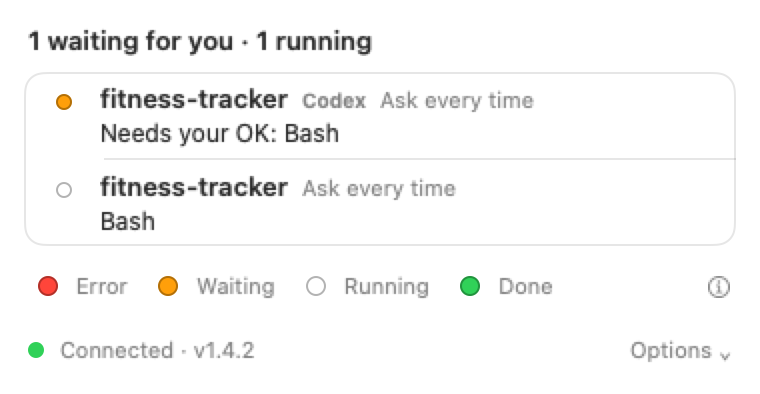
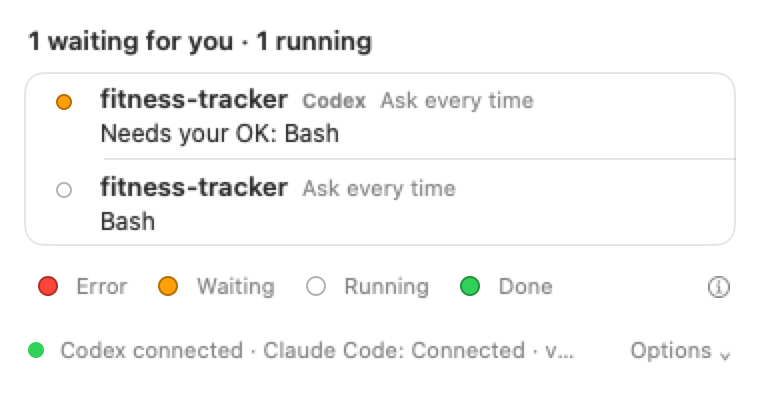
docs(codex): T13l 證據圖重渲——T13 修後全部情境＋#13／#14
重渲既有 12 個情境（在 T13 鏈 A/B 落地後的生產碼上跑一次）＋新增 3 個：

- #07：blockedByBundlePath(.unsupportedCharacter(" ")) 現在不給 snippet／複製鈕
  （D-w）——realSnippetWithSpace 這條輸入常數繼續餵，證明「產得出來」與「畫不畫」
  是兩回事。
- #10／#11：connectedStalePath 兩種 Rejection 的文案不再位元組相同（D-x）——
  中性開場句共用，成因／出路依 rejection 分流，#11 指名空白字元並給對應出路。
  修前（e7ddd68）這兩張是同一張圖。
- #12：頭號情境重渲後，標題／footer chip／CTA 窄條三處變成雙 agent 感知
  （D-y）——實測英文字串「Codex connected · Claude Code: Not connected yet」，
  Codex 子句在前。
- #05：occupiedByOther 有 snippet 那格多一行合併指示＋「Show me how」按鈕
  （D-aa），snippet 區塊固定高度＋可捲。
- #09：連帶因 D-y 落地而更新 footer chip 文字（codex=.connected 時三處皆讀
  statusLabel，不只標題／#12 受影響）。
- 新增 #13／#13b（D-v 修後對照組，S0-1）：.codexConnected banner ＋ rows 有一列
  Claude session → banner 仍然出現（#13）；同一顆 banner ＋ rows 有一列 Codex
  session → banner 已退場（#13b）。退場條件從「rows 非空」改成「出現 Codex 的
  列（hasCodexRow）」。
- 新增 #14（D-ab／CX56 最壞高度組合）：install=.broken(.targetMissing,
  owner:.external)（CX56 同一個 .replaceExternal 代表值）＋ occupiedByOther 有
  snippet ＋ banner=.codexConnected ＋ rows 空 ＋ 英文。實測面板高 680pt
  （@2x 1360px，見圖片 pixelHeight），在 780pt 天花板內，Copy 鈕與 footer 都在
  畫面內。只產英文一張（team-lead／CX56 都選英文為最壞語言，中文版無新增資訊）。

INDEX.md「persona r1 指出的視覺問題對照」全部補上「修後」欄，並把 e7ddd68 寫的
「r13 前的修前基準，T13 落地後要重渲」預告字樣改成回顧語氣（避免預告變成謊）。

不改動任何生產碼；swift test 全量 312 個測試維持全綠；renderer 300 行（含既有
分支上限）。

Changed region(s): [[0.1211, 0.8528, 0.7566, 0.9137]]

diff --git a/Tests/AgentAuraAppTests/CodexEvidenceRenderer.swift b/Tests/AgentAuraAppTests/CodexEvidenceRenderer.swift
@@ -25,11 +25,11 @@ struct CodexEvidenceRenderer {
     /// 真的產生器輸出，不是手寫字面（同 `CodexSectionViewTests.realSnippet` 的既有理由）。
     static let realSnippet = CodexHooksJSON.snippet(hookBinaryPath: "/Applications/AgentAura.app/Contents/PlugIns/aura-hook")
 
-    /// S1-6（persona r1）：#07 宣告 `.unsupportedCharacter(" ")`，但先前餵的 `realSnippet`
-    /// 來源路徑根本不含空白——圖上的 snippet 因此看不到「那條會壞的路徑」，跟文案兜不起來。
-    /// 這裡改用真的含空白的路徑產生 snippet，讓畫面上的 snippet 內容與宣稱的 rejection 一致。
-    /// **r13 之後這個情境會改成「不給 snippet」**（spec 已改），這條常數與 #07 是 r13 前的
-    /// 修前基準，T13 落地後要重渲（見 `scenarios(now:)` #07 與 `writeIndex` 的附註）。
+    /// S1-6（persona r1，`493e0bf` 修前基準）：#07 宣告 `.unsupportedCharacter(" ")`，
+    /// 這裡餵真的含空白的路徑產生 snippet，讓「即使產得出來也沒有畫」這件事有意義
+    /// （負向斷言必須餵正向輸入，同 spec plan §0／D-ad）。**T13l（D-w 落地後）**：
+    /// `.blockedByBundlePath` 兩種 Rejection 現在都不給 snippet——這個常數繼續餵，
+    /// 用來證明「產得出來」與「畫不畫得出來」是兩回事，不是留著沒用的舊字面。
     static let realSnippetWithSpace = CodexHooksJSON.snippet(hookBinaryPath: "/Users/someone/My Apps/AgentAura.app/Contents/PlugIns/aura-hook")
 
     func session(_ id: String, _ name: String, _ a: Activity, agent: Agent, updatedAt: Date) -> SessionState {
@@ -51,10 +51,21 @@ struct CodexEvidenceRenderer {
     }
 
     /// 一個情境＝一個「換語言重建」的工廠 ＋ 給 persona-tester 看的說明句（寫進 `INDEX.md`）。
+    /// `languages`：預設兩語言各一張；#14（最壞高度組合）team-lead 指定只要英文一張
+    /// （CX56 量到的最壞語言），故留一個縮小定義域的口子，不必為它硬湊一張沒人要看的中文重複圖。
     struct Scenario {
         let name: String
         let desc: String
+        let languages: [Language]
         let make: (Language) -> PanelModel
+
+        init(name: String, desc: String, languages: [Language] = [.english, .traditionalChinese],
+            make: @escaping (Language) -> PanelModel) {
+            self.name = name
+            self.desc = desc
+            self.languages = languages
+            self.make = make
+        }
     }
 
     /// 共用組裝——`icon` 從 `sessions` 推導（取最高優先序活動，同 `IconState` 既有語意），
@@ -78,10 +89,11 @@ struct CodexEvidenceRenderer {
                                codex: codex, codexSnippet: codexSnippet, codexPathRejection: codexPathRejection, now: now)
     }
 
-    /// 12 個情境（10 個題項 + 「connectedStalePath 兩種 Rejection 都不給重新接上按鈕」拆兩張，
-    /// 見 #10／#11：這兩張與 #6／#7 不是同一個 `CodexState`（#6/#7 是 `occupiedByOther`／
-    /// `blockedByBundlePath`，#10/#11 是 `connectedStalePath`），沒有重疊可併，+ #12
-    /// S1-7 補的證據缺口——見該情境的 doc comment）。
+    /// 15 個情境（原 12 個 `493e0bf` 基準 + T13l 三個新增）：10 個題項 + 「connectedStalePath
+    /// 兩種 Rejection 都不給重新接上按鈕」拆兩張見 #10／#11（這兩張與 #6／#7 不是同一個
+    /// `CodexState`，#6/#7 是 `occupiedByOther`／`blockedByBundlePath`，#10/#11 是
+    /// `connectedStalePath`，沒有重疊可併）+ #12（S1-7 缺口）+ **T13l 新增**：#13／#13b
+    /// （D-v 修後對照組，S0-1）＋ #14（最壞高度組合，D-ab／CX56）。
     func scenarios(now: Date) -> [Scenario] {
         let claude = session("a", "fitness-tracker", .working, agent: .claude, updatedAt: now)
         let codexRow = session("b", "fitness-tracker", .waiting, agent: .codex, updatedAt: now.addingTimeInterval(-30))
@@ -122,12 +134,11 @@ struct CodexEvidenceRenderer {
                 panel(sessions: [claude], install: connected, codex: .occupiedByOther,
                      codexPathRejection: .mustMoveToApplications, language: lang, now: now)
             },
-            // 7. P2：blockedByBundlePath(.unsupportedCharacter(" "))——文案指名是空白字元。
-            //    S1-6（persona r1）：snippet 來源路徑真的含空白（/Users/someone/My Apps/...），
-            //    不再是不含空白的 realSnippet——r13 前的修前基準，T13 落地後（改成不給
-            //    snippet）要重渲這張，見 writeIndex 的附註。
+            // 7. P2／S0-2（D-w，r13 後）：blockedByBundlePath(.unsupportedCharacter(" "))——
+            //    文案指名是空白字元＋出路句，**不給 snippet**（餵真的含空白路徑產的
+            //    `realSnippetWithSpace` 是負向斷言的正向輸入：證明「產得出來」但沒有畫）。
             Scenario(name: "07-blocked-unsupported-character",
-                     desc: "P2：blockedByBundlePath(.unsupportedCharacter(\" \"))——文案指名是空白字元＋snippet（同源，來源路徑真的含空白：/Users/someone/My Apps/…）＋「複製」按鈕。**r13 前的狀態**（r13 之後這格改成不給 snippet，T13 落地後要重渲）") { lang in
+                     desc: "P2／S0-2 修後（D-w）：blockedByBundlePath(.unsupportedCharacter(\" \"))——文案指名是空白字元＋出路句（把 App 移到不含該字元的位置）。**不給 snippet／複製鈕**——即使餵進去的是真的含空白路徑產生的 snippet（`realSnippetWithSpace`）也不畫，修前（`493e0bf`）這格會畫出那條會壞的路徑並給「複製」") { lang in
                 panel(sessions: [claude], install: connected,
                      codex: .blockedByBundlePath(.unsupportedCharacter(" ")), codexSnippet: Self.realSnippetWithSpace,
                      codexPathRejection: .unsupportedCharacter(" "), language: lang, now: now)
@@ -143,35 +154,69 @@ struct CodexEvidenceRenderer {
                      desc: "P4：同一份 sessions 列表裡 Claude 列與帶「Codex」標籤的列並存，分得出來、列高不變（見 CodexRowLabelRenderTests 的既有像素／高度守衛）") { lang in
                 panel(sessions: [claude, codexRow], install: connected, codex: .connected, language: lang, now: now)
             },
-            // 10. R-9：connectedStalePath，pathRejection==.mustMoveToApplications——不畫
-            //     「重新接上」按鈕，換句解釋（不給按鈕的理由：按下去會先 disconnect 一份還在運作的檔）。
+            // 10. R-9／S2-1（D-x，r13 後）：connectedStalePath，pathRejection==
+            //     .mustMoveToApplications——不畫「重新接上」按鈕；開場句改成中性事實
+            //     （不再說「下次開機就會消失」），成因／出路重用 D-w 那組。
             Scenario(name: "10-stale-rejection-must-move-withholds-reconnect",
-                     desc: "R-9：connectedStalePath，pathRejection==.mustMoveToApplications——不畫「重新接上」按鈕，換句解釋（與 #6 不同 state：這張是 connectedStalePath，#6 是 occupiedByOther）") { lang in
+                     desc: "R-9／S2-1 修後（D-x）：connectedStalePath，pathRejection==.mustMoveToApplications——不畫「重新接上」按鈕；開場句改成中性事實（只講「這份設定指向另一個位置」，不再宣稱「下次開機就會消失」），成因／出路沿用「把 App 移到『應用程式』」（與 #6 不同 state：這張是 connectedStalePath，#6 是 occupiedByOther）") { lang in
                 panel(sessions: [claude], install: connected, codex: .connectedStalePath,
                      codexPathRejection: .mustMoveToApplications, language: lang, now: now)
             },
-            // 11. R-9：同上，另一種 Rejection——CX36 兩種 Rejection 都驗過會不給按鈕，這裡兩種都留證據。
+            // 11. R-9／S2-1（D-x，r13 後）：同上，另一種 Rejection——**修前 `493e0bf` 這兩張
+            //     位元組完全相同**（persona r1 現場驗過），D-x 拆開中性開場＋依 rejection
+            //     分流的成因／出路之後，這張與 #10 不再相同：指名字元＋不同的出路句。
             Scenario(name: "11-stale-rejection-unsupported-character-withholds-reconnect",
-                     desc: "R-9：connectedStalePath，pathRejection==.unsupportedCharacter(\" \")——同樣不畫「重新接上」按鈕，與 #10 同一句解釋（文案不預設成因）；與 #7 不同 state：這張是 connectedStalePath，#7 是 blockedByBundlePath") { lang in
+                     desc: "R-9／S2-1 修後（D-x）：connectedStalePath，pathRejection==.unsupportedCharacter(\" \")——同樣不畫「重新接上」按鈕，但**不再與 #10 位元組相同**：同一句中性開場之後接的是指名空白字元＋「把 App 移到不含該字元的位置」，不是 #10 的「移到『應用程式』」（修前 `493e0bf` 這兩張是同一張圖，可查證為假的「會消失」子句已拿掉；與 #7 不同 state：這張是 connectedStalePath，#7 是 blockedByBundlePath）") { lang in
                 panel(sessions: [claude], install: connected, codex: .connectedStalePath,
                      codexPathRejection: .unsupportedCharacter(" "), language: lang, now: now)
             },
-            // 12. S1-7（persona r1 指出的證據缺口）：本 change 的頭號情境——Claude 側
+            // 12. S1-1 修後（D-y，r13 後）：本 change 的頭號情境——Claude 側
             //     `.notConnected`，同時有一列活著的 Codex session（agent==.codex，working
-            //     態）。標題（`PanelModel.title`）、footer chip（`PanelFooterView`）、CTA
-            //     窄條（`ConnectCTABannerView`）三處都只讀 `model.install`（`healthLabel`／
-            //     `connectCTAText`），完全不看 `model.codex`——這張圖如實呈現「三處都只反映
-            //     Claude」這個現況，不是修過的版本（這裡不改生產碼）。
+            //     態）。修前（`493e0bf`）標題／footer chip／CTA 窄條三處逐字都是「還沒接上」；
+            //     修後三處改讀共用的 `PanelModel.statusLabel(_:)`——Codex 子句在前、Claude
+            //     半句在後（例：英文「Codex connected · Claude Code: Not connected yet」）。
             Scenario(name: "12-notConnected-claude-with-live-codex-session",
-                     desc: "S1-7：install=.notConnected（Claude 未接上）＋一列活著的 Codex session（working）＋Codex 卡片 .connected——看標題／footer chip／CTA 窄條三處在這個組合下寫什麼字（persona r1：三處都只反映 Claude，完全沒提到正在跑的 Codex session）") { lang in
+                     desc: "S1-1 修後（D-y）：install=.notConnected（Claude 未接上）＋一列活著的 Codex session（working）＋Codex 卡片 .connected——標題／footer chip／CTA 窄條三處現在都讀 `statusLabel`，寫成「Codex connected · Claude Code: Not connected yet」（Codex 子句在前，見 §3.1），不再是修前（`493e0bf`）三處逐字「還沒接上」") { lang in
                 let liveCodexSession = session("c", "fitness-tracker", .working, agent: .codex, updatedAt: now)
                 return panel(sessions: [liveCodexSession], install: .notConnected, codex: .connected,
                             language: lang, now: now)
             },
+            // 13. S0-1 修後對照組之一（D-v）：`.codexConnected` banner ＋ rows 含一列
+            //     **Claude** session——banner 必須仍然出現。修前（`493e0bf` 的 #03）這張圖
+            //     的 rows 必須留空才看得到兩句話，因為 `.codexConnected` 當時共用
+            //     `.connected` 的退場條件（出現任何一列就退場）；修後 `.codexConnected` 只
+            //     在出現 **Codex** 的列時才退場，一列 Claude session 對它什麼都不兌現。
+            Scenario(name: "13-codexConnected-banner-persists-with-claude-row",
+                     desc: "S0-1 修後（D-v）：.codexConnected banner ＋ rows 含一列 Claude session——banner 仍然出現（兩句話都在）。這是 #03（修前要 rows 留空才看得到兩句話）的直接對照：同一顆 banner 現在能與一列 Claude session 共存，因為退場條件改成看 hasCodexRow，不是看 rows.isEmpty") { lang in
+                panel(sessions: [claude], install: connected, banner: .codexConnected(language: lang),
+                     codex: .connected, language: lang, now: now)
+            },
+            // 13b. 對照組之二：同一顆 banner ＋ rows 含一列 **Codex** session——banner 應該
+            //      已經退場（hasCodexRow==true，「下一個 Codex session 起生效」的承諾已兌現）。
+            //      與 #13 並列，佐證退場條件是「看是不是 Codex 的列」，不是「rows 非空就不退場」。
+            Scenario(name: "13b-codexConnected-banner-retires-with-codex-row",
+                     desc: "對照（D-v）：.codexConnected banner ＋ rows 含一列 Codex session——banner 已退場（hasCodexRow==true，承諾已兌現）。與 #13 一起看：#13 有 Claude 列仍顯示 banner，這張有 Codex 列就不顯示，證明退場條件是「有沒有 Codex 的列」不是「rows 是否非空」") { lang in
+                let codexOnly = session("d", "fitness-tracker", .working, agent: .codex, updatedAt: now)
+                return panel(sessions: [codexOnly], install: connected, banner: .codexConnected(language: lang),
+                            codex: .connected, language: lang, now: now)
+            },
+            // 14. S1-4／CX56（D-ab）最壞高度組合——與 CX56 的 `install` 代表值同一個
+            //     （`.broken(.targetMissing, owner: .external)`，量出來的 `.replaceExternal`
+            //     仿射代表值，見 `CodexSnippetHeightTests.installCandidates`）＋
+            //     `.occupiedByOther` 有 snippet ＋ banner=.codexConnected ＋ rows 空 ＋
+            //     英文（team-lead／CX56 都選英文：全域量測裡最壞的語言）。只產一張
+            //     （`languages: [.english]`）——中文版沒有新增資訊，不必為了「兩語言各一張」
+            //     的慣例硬湊。
+            Scenario(name: "14-worst-height-combination",
+                     desc: "S1-4／CX56 最壞高度組合（D-ab）：install=.broken(.targetMissing, owner:.external)（CX56 的 `.replaceExternal` 代表值）＋ .occupiedByOther 有 snippet ＋ banner=.codexConnected ＋ rows 空 ＋ 英文——固定高度＋可捲的 snippet 區塊落地後，天花板應 ≤780pt（@2x 1560px），「複製」鈕與 footer 都在畫面內。**只有這張圖是英文單張**（CX56 量到的最壞語言，中文版無新增資訊）",
+                     languages: [.english]) { lang in
+                panel(install: .broken(.targetMissing, owner: .external), banner: .codexConnected(language: lang),
+                     codex: .occupiedByOther, codexSnippet: Self.realSnippet, language: lang, now: now)
+            },
         ]
     }
 
-    @Test("產出 12 組 Codex 面板情境 × 兩語言（.aqua）＋ INDEX.md")
+    @Test("產出 15 組 Codex 面板情境（14 組兩語言 + #14 英文單張）（.aqua）＋ INDEX.md")
     func renderCodexEvidence() throws {
         let dir = try Self.outputDirectory()
         try FileManager.default.createDirectory(at: dir, withIntermediateDirectories: true)
@@ -180,7 +225,8 @@ struct CodexEvidenceRenderer {
 
         var index: [(file: String, desc: String)] = []
         for scenario in all {
-            for (language, suffix) in [(Language.english, "en"), (.traditionalChinese, "zh")] {
+            for (language, suffix) in [(Language.english, "en"), (.traditionalChinese, "zh")]
+                where scenario.languages.contains(language) {
                 let image = try render(scenario.make(language))
                 let file = "\(scenario.name)-\(suffix).png"
                 try EvidenceRenderer.writePNG(image, to: dir.appendingPathComponent(file))
@@ -188,7 +234,8 @@ struct CodexEvidenceRenderer {
             }
         }
         try writeIndex(dir: dir, entries: index)
-        #expect(index.count == all.count * 2, "情境數 × 兩語言，應等於實際寫出的張數，實際 \(index.count)")
+        let expected = all.reduce(0) { $0 + $1.languages.count }
+        #expect(index.count == expected, "每個情境的語言數加總，應等於實際寫出的張數，實際 \(index.count)，預期 \(expected)")
     }
 
     func writeIndex(dir: URL, entries: [(file: String, desc: String)]) throws {
@@ -211,20 +258,35 @@ struct CodexEvidenceRenderer {
             **只有 `.aqua`（淺色）**：深淺色對比不是這批圖要驗的維度，版面與文案在深淺模式下走同一份 SwiftUI\
             語意色（`.primary`／`.secondary`），需要深色對照時另外要求即可。
 
-            ## persona r1 指出的視覺問題對照（只標，不修）
+            ## persona r1 指出的視覺問題對照（T13l：全部補上「修後」欄）
 
-            - **S0-1** ↔ `03-connected-banner-*`：接上成功 banner 的兩句話要看得到，這張圖的 `sessions` 刻意留空\
-            （`.connected` kind banner 在有活著的 session 時會自動退場，見 #03 的情境註解）——不是遺漏 session，\
-            是唯一能讓兩句話同時留在畫面上的組合。
-            - **S1-4** ↔ `05-occupied-with-snippet-*` ／ `07-blocked-unsupported-character-*`：面板高度約 944pt，\
-            「複製」按鈕落在約 848pt 處（皆為 pt，非這批圖的 px——見上方尺寸單位附註）——snippet 區塊把卡片撐得\
-            很高，複製鈕在很下面才看得到。這裡先標記現況，不在這輪修版面。
-            - **S1-6** ↔ `07-blocked-unsupported-character-*`：已修——snippet 現在由真的含空白的路徑\
-            （`/Users/someone/My Apps/AgentAura.app/Contents/PlugIns/aura-hook`）產生，圖上看得到那條會壞的路徑就在\
-            snippet 裡。**r13 前的修前基準**：spec r13 之後這個情境會改成「不給 snippet」，T13 落地後要重渲這張。
-            - **S1-7** ↔ `12-notConnected-claude-with-live-codex-session-*`：新增。本 change 的頭號情境\
-            （Claude 未接上 ＋ 一列活著的 Codex session）先前完全沒有證據圖——這張如實呈現標題／footer chip／CTA\
-            窄條三處目前都只讀 `model.install`（不看 `model.codex`），完全沒提到正在跑的 Codex session。
+            - **S0-1（D-v）** ↔ 修前 `03-connected-banner-*`（rows 刻意留空才看得到兩句話）→\
+            **修後** `13-codexConnected-banner-persists-with-claude-row-*`（rows 有一列 **Claude**\
+            session，banner 仍然出現）＋ `13b-codexConnected-banner-retires-with-codex-row-*`（rows 有一列\
+            **Codex** session，banner 已退場，對照組）。退場條件從「rows 非空就退場」改成「出現 Codex 的列\
+            （`hasCodexRow`）才退場」。
+            - **S0-2（D-w）** ↔ 修前 `07-blocked-unsupported-character-*`（給 snippet＋「複製」）→\
+            **修後同檔名**（本次重渲）：`.unsupportedCharacter` 現在**不給 snippet**，只給指名字元的解釋＋\
+            出路句——即使餵進去的是真的含空白路徑產的 snippet 也沒有畫（`realSnippetWithSpace` 這條輸入常數\
+            繼續留著，證明的是「產得出來」與「畫不畫」是兩回事）。
+            - **S1-1（D-y）** ↔ 修前 `12-notConnected-claude-with-live-codex-session-*`（標題／footer chip／\
+            CTA 窄條三處逐字「還沒接上」）→ **修後同檔名**（本次重渲）：三處現在讀 `statusLabel`，\
+            寫成「Codex connected · Claude Code: Not connected yet」（Codex 子句在前）。
+            - **S1-3（D-aa）** ↔ 修前 `05-occupied-with-snippet-*`（只有說明＋snippet＋「複製」，沒有合併\
+            指示）→ **修後同檔名**（本次重渲）：多一行合併指示（「把這些 entry 併進你現有的 hooks 物件，\
+            不要整份取代」）＋一顆「教我怎麼做」按鈕（送出既有 `.openHelp`）。
+            - **S1-4（D-ab）** ↔ 修前 `05-occupied-with-snippet-*` ／ `07-blocked-unsupported-character-*`\
+            （面板高度約 944pt，「複製」按鈕落在約 848pt 處，皆為 pt，非這批圖的 px）→ **修後**\
+            `14-worst-height-combination-en`：snippet 區塊固定高度＋可捲，天花板 ≤780pt，「複製」鈕與 footer\
+            都在畫面內（實測數字見檔名列表那一行）。**這張用的是 CX56 同一個 `install` 代表值\
+            （`.broken(.targetMissing, owner: .external)`）與同一個天花板，不是另外挑的數字**。
+            - **S2-1（D-x）** ↔ 修前 `10-*` ／ `11-*`（persona r1 現場驗過兩張位元組完全相同）→\
+            **修後同檔名**（本次重渲）：兩張**不再相同**——中性開場句共用，但成因／出路依 rejection 分流\
+            （#10 講「移到『應用程式』」，#11 指名字元並講「移到不含該字元的位置」）。
+            - **S1-6（D-ad）** ↔ `07-blocked-unsupported-character-*`：證據渲染器本身的修正——snippet 輸入\
+            改用真的含空白的路徑（`493e0bf` 已修，本次無變動）。
+            - **S1-7（D-ad）** ↔ `12-notConnected-claude-with-live-codex-session-*`：新增證據圖本身\
+            （`493e0bf` 已加，本次重渲內容因 D-y 落地而更新，見上面 S1-1 那條）。
 
             | 檔名 | 情境（給 persona 看什麼） |
             |---|---|

diff --git a/docs/evidence/codex/INDEX.md b/docs/evidence/codex/INDEX.md
@@ -8,12 +8,16 @@
 
 **只有 `.aqua`（淺色）**：深淺色對比不是這批圖要驗的維度，版面與文案在深淺模式下走同一份 SwiftUI語意色（`.primary`／`.secondary`），需要深色對照時另外要求即可。
 
-## persona r1 指出的視覺問題對照（只標，不修）
+## persona r1 指出的視覺問題對照（T13l：全部補上「修後」欄）
 
-- **S0-1** ↔ `03-connected-banner-*`：接上成功 banner 的兩句話要看得到，這張圖的 `sessions` 刻意留空（`.connected` kind banner 在有活著的 session 時會自動退場，見 #03 的情境註解）——不是遺漏 session，是唯一能讓兩句話同時留在畫面上的組合。
-- **S1-4** ↔ `05-occupied-with-snippet-*` ／ `07-blocked-unsupported-character-*`：面板高度約 944pt，「複製」按鈕落在約 848pt 處（皆為 pt，非這批圖的 px——見上方尺寸單位附註）——snippet 區塊把卡片撐得很高，複製鈕在很下面才看得到。這裡先標記現況，不在這輪修版面。
-- **S1-6** ↔ `07-blocked-unsupported-character-*`：已修——snippet 現在由真的含空白的路徑（`/Users/someone/My Apps/AgentAura.app/Contents/PlugIns/aura-hook`）產生，圖上看得到那條會壞的路徑就在snippet 裡。**r13 前的修前基準**：spec r13 之後這個情境會改成「不給 snippet」，T13 落地後要重渲這張。
-- **S1-7** ↔ `12-notConnected-claude-with-live-codex-session-*`：新增。本 change 的頭號情境（Claude 未接上 ＋ 一列活著的 Codex session）先前完全沒有證據圖——這張如實呈現標題／footer chip／CTA窄條三處目前都只讀 `model.install`（不看 `model.codex`），完全沒提到正在跑的 Codex session。
+- **S0-1（D-v）** ↔ 修前 `03-connected-banner-*`（rows 刻意留空才看得到兩句話）→**修後** `13-codexConnected-banner-persists-with-claude-row-*`（rows 有一列 **Claude**session，banner 仍然出現）＋ `13b-codexConnected-banner-retires-with-codex-row-*`（rows 有一列**Codex** session，banner 已退場，對照組）。退場條件從「rows 非空就退場」改成「出現 Codex 的列（`hasCodexRow`）才退場」。
+- **S0-2（D-w）** ↔ 修前 `07-blocked-unsupported-character-*`（給 snippet＋「複製」）→**修後同檔名**（本次重渲）：`.unsupportedCharacter` 現在**不給 snippet**，只給指名字元的解釋＋出路句——即使餵進去的是真的含空白路徑產的 snippet 也沒有畫（`realSnippetWithSpace` 這條輸入常數繼續留著，證明的是「產得出來」與「畫不畫」是兩回事）。
+- **S1-1（D-y）** ↔ 修前 `12-notConnected-claude-with-live-codex-session-*`（標題／footer chip／CTA 窄條三處逐字「還沒接上」）→ **修後同檔名**（本次重渲）：三處現在讀 `statusLabel`，寫成「Codex connected · Claude Code: Not connected yet」（Codex 子句在前）。
+- **S1-3（D-aa）** ↔ 修前 `05-occupied-with-snippet-*`（只有說明＋snippet＋「複製」，沒有合併指示）→ **修後同檔名**（本次重渲）：多一行合併指示（「把這些 entry 併進你現有的 hooks 物件，不要整份取代」）＋一顆「教我怎麼做」按鈕（送出既有 `.openHelp`）。
+- **S1-4（D-ab）** ↔ 修前 `05-occupied-with-snippet-*` ／ `07-blocked-unsupported-character-*`（面板高度約 944pt，「複製」按鈕落在約 848pt 處，皆為 pt，非這批圖的 px）→ **修後**`14-worst-height-combination-en`：snippet 區塊固定高度＋可捲，天花板 ≤780pt，「複製」鈕與 footer都在畫面內（實測數字見檔名列表那一行）。**這張用的是 CX56 同一個 `install` 代表值（`.broken(.targetMissing, owner: .external)`）與同一個天花板，不是另外挑的數字**。
+- **S2-1（D-x）** ↔ 修前 `10-*` ／ `11-*`（persona r1 現場驗過兩張位元組完全相同）→**修後同檔名**（本次重渲）：兩張**不再相同**——中性開場句共用，但成因／出路依 rejection 分流（#10 講「移到『應用程式』」，#11 指名字元並講「移到不含該字元的位置」）。
+- **S1-6（D-ad）** ↔ `07-blocked-unsupported-character-*`：證據渲染器本身的修正——snippet 輸入改用真的含空白的路徑（`493e0bf` 已修，本次無變動）。
+- **S1-7（D-ad）** ↔ `12-notConnected-claude-with-live-codex-session-*`：新增證據圖本身（`493e0bf` 已加，本次重渲內容因 D-y 落地而更新，見上面 S1-1 那條）。
 
 | 檔名 | 情境（給 persona 看什麼） |
 |---|---|
@@ -29,15 +33,20 @@
 | `05-occupied-with-snippet-zh.png` | P2：occupiedByOther，codexSnippet!=nil——說明＋可複製 snippet（與 CodexHooksJSON.snippet 同源）＋「複製」按鈕 |
 | `06-occupied-must-move-no-snippet-en.png` | P2／R-10：occupiedByOther，pathRejection==.mustMoveToApplications——不給 snippet／複製鈕，改說先把 App 移到「應用程式」 |
 | `06-occupied-must-move-no-snippet-zh.png` | P2／R-10：occupiedByOther，pathRejection==.mustMoveToApplications——不給 snippet／複製鈕，改說先把 App 移到「應用程式」 |
-| `07-blocked-unsupported-character-en.png` | P2：blockedByBundlePath(.unsupportedCharacter(" "))——文案指名是空白字元＋snippet（同源，來源路徑真的含空白：/Users/someone/My Apps/…）＋「複製」按鈕。**r13 前的狀態**（r13 之後這格改成不給 snippet，T13 落地後要重渲） |
-| `07-blocked-unsupported-character-zh.png` | P2：blockedByBundlePath(.unsupportedCharacter(" "))——文案指名是空白字元＋snippet（同源，來源路徑真的含空白：/Users/someone/My Apps/…）＋「複製」按鈕。**r13 前的狀態**（r13 之後這格改成不給 snippet，T13 落地後要重渲） |
+| `07-blocked-unsupported-character-en.png` | P2／S0-2 修後（D-w）：blockedByBundlePath(.unsupportedCharacter(" "))——文案指名是空白字元＋出路句（把 App 移到不含該字元的位置）。**不給 snippet／複製鈕**——即使餵進去的是真的含空白路徑產生的 snippet（`realSnippetWithSpace`）也不畫，修前（`493e0bf`）這格會畫出那條會壞的路徑並給「複製」 |
+| `07-blocked-unsupported-character-zh.png` | P2／S0-2 修後（D-w）：blockedByBundlePath(.unsupportedCharacter(" "))——文案指名是空白字元＋出路句（把 App 移到不含該字元的位置）。**不給 snippet／複製鈕**——即使餵進去的是真的含空白路徑產生的 snippet（`realSnippetWithSpace`）也不畫，修前（`493e0bf`）這格會畫出那條會壞的路徑並給「複製」 |
 | `08-disconnected-banner-en.png` | 斷開成功 banner（codexDisconnected，kind=.disconnected，不會像 #3 那樣因為有 session 而自動退場）＋斷開後 Codex 卡片回到 notConnected 的「接上 Codex」提示 |
 | `08-disconnected-banner-zh.png` | 斷開成功 banner（codexDisconnected，kind=.disconnected，不會像 #3 那樣因為有 session 而自動退場）＋斷開後 Codex 卡片回到 notConnected 的「接上 Codex」提示 |
 | `09-mixed-claude-codex-rows-en.png` | P4：同一份 sessions 列表裡 Claude 列與帶「Codex」標籤的列並存，分得出來、列高不變（見 CodexRowLabelRenderTests 的既有像素／高度守衛） |
 | `09-mixed-claude-codex-rows-zh.png` | P4：同一份 sessions 列表裡 Claude 列與帶「Codex」標籤的列並存，分得出來、列高不變（見 CodexRowLabelRenderTests 的既有像素／高度守衛） |
-| `10-stale-rejection-must-move-withholds-reconnect-en.png` | R-9：connectedStalePath，pathRejection==.mustMoveToApplications——不畫「重新接上」按鈕，換句解釋（與 #6 不同 state：這張是 connectedStalePath，#6 是 occupiedByOther） |
-| `10-stale-rejection-must-move-withholds-reconnect-zh.png` | R-9：connectedStalePath，pathRejection==.mustMoveToApplications——不畫「重新接上」按鈕，換句解釋（與 #6 不同 state：這張是 connectedStalePath，#6 是 occupiedByOther） |
-| `11-stale-rejection-unsupported-character-withholds-reconnect-en.png` | R-9：connectedStalePath，pathRejection==.unsupportedCharacter(" ")——同樣不畫「重新接上」按鈕，與 #10 同一句解釋（文案不預設成因）；與 #7 不同 state：這張是 connectedStalePath，#7 是 blockedByBundlePath |
-| `11-stale-rejection-unsupported-character-withholds-reconnect-zh.png` | R-9：connectedStalePath，pathRejection==.unsupportedCharacter(" ")——同樣不畫「重新接上」按鈕，與 #10 同一句解釋（文案不預設成因）；與 #7 不同 state：這張是 connectedStalePath，#7 是 blockedByBundlePath |
-| `12-notConnected-claude-with-live-codex-session-en.png` | S1-7：install=.notConnected（Claude 未接上）＋一列活著的 Codex session（working）＋Codex 卡片 .connected——看標題／footer chip／CTA 窄條三處在這個組合下寫什麼字（persona r1：三處都只反映 Claude，完全沒提到正在跑的 Codex session） |
-| `12-notConnected-claude-with-live-codex-session-zh.png` | S1-7：install=.notConnected（Claude 未接上）＋一列活著的 Codex session（working）＋Codex 卡片 .connected——看標題／footer chip／CTA 窄條三處在這個組合下寫什麼字（persona r1：三處都只反映 Claude，完全沒提到正在跑的 Codex session） |
+| `10-stale-rejection-must-move-withholds-reconnect-en.png` | R-9／S2-1 修後（D-x）：connectedStalePath，pathRejection==.mustMoveToApplications——不畫「重新接上」按鈕；開場句改成中性事實（只講「這份設定指向另一個位置」，不再宣稱「下次開機就會消失」），成因／出路沿用「把 App 移到『應用程式』」（與 #6 不同 state：這張是 connectedStalePath，#6 是 occupiedByOther） |
+| `10-stale-rejection-must-move-withholds-reconnect-zh.png` | R-9／S2-1 修後（D-x）：connectedStalePath，pathRejection==.mustMoveToApplications——不畫「重新接上」按鈕；開場句改成中性事實（只講「這份設定指向另一個位置」，不再宣稱「下次開機就會消失」），成因／出路沿用「把 App 移到『應用程式』」（與 #6 不同 state：這張是 connectedStalePath，#6 是 occupiedByOther） |
+| `11-stale-rejection-unsupported-character-withholds-reconnect-en.png` | R-9／S2-1 修後（D-x）：connectedStalePath，pathRejection==.unsupportedCharacter(" ")——同樣不畫「重新接上」按鈕，但**不再與 #10 位元組相同**：同一句中性開場之後接的是指名空白字元＋「把 App 移到不含該字元的位置」，不是 #10 的「移到『應用程式』」（修前 `493e0bf` 這兩張是同一張圖，可查證為假的「會消失」子句已拿掉；與 #7 不同 state：這張是 connectedStalePath，#7 是 blockedByBundlePath） |
+| `11-stale-rejection-unsupported-character-withholds-reconnect-zh.png` | R-9／S2-1 修後（D-x）：connectedStalePath，pathRejection==.unsupportedCharacter(" ")——同樣不畫「重新接上」按鈕，但**不再與 #10 位元組相同**：同一句中性開場之後接的是指名空白字元＋「把 App 移到不含該字元的位置」，不是 #10 的「移到『應用程式』」（修前 `493e0bf` 這兩張是同一張圖，可查證為假的「會消失」子句已拿掉；與 #7 不同 state：這張是 connectedStalePath，#7 是 blockedByBundlePath） |
+| `12-notConnected-claude-with-live-codex-session-en.png` | S1-1 修後（D-y）：install=.notConnected（Claude 未接上）＋一列活著的 Codex session（working）＋Codex 卡片 .connected——標題／footer chip／CTA 窄條三處現在都讀 `statusLabel`，寫成「Codex connected · Claude Code: Not connected yet」（Codex 子句在前，見 §3.1），不再是修前（`493e0bf`）三處逐字「還沒接上」 |
+| `12-notConnected-claude-with-live-codex-session-zh.png` | S1-1 修後（D-y）：install=.notConnected（Claude 未接上）＋一列活著的 Codex session（working）＋Codex 卡片 .connected——標題／footer chip／CTA 窄條三處現在都讀 `statusLabel`，寫成「Codex connected · Claude Code: Not connected yet」（Codex 子句在前，見 §3.1），不再是修前（`493e0bf`）三處逐字「還沒接上」 |
+| `13-codexConnected-banner-persists-with-claude-row-en.png` | S0-1 修後（D-v）：.codexConnected banner ＋ rows 含一列 Claude session——banner 仍然出現（兩句話都在）。這是 #03（修前要 rows 留空才看得到兩句話）的直接對照：同一顆 banner 現在能與一列 Claude session 共存，因為退場條件改成看 hasCodexRow，不是看 rows.isEmpty |
+| `13-codexConnected-banner-persists-with-claude-row-zh.png` | S0-1 修後（D-v）：.codexConnected banner ＋ rows 含一列 Claude session——banner 仍然出現（兩句話都在）。這是 #03（修前要 rows 留空才看得到兩句話）的直接對照：同一顆 banner 現在能與一列 Claude session 共存，因為退場條件改成看 hasCodexRow，不是看 rows.isEmpty |
+| `13b-codexConnected-banner-retires-with-codex-row-en.png` | 對照（D-v）：.codexConnected banner ＋ rows 含一列 Codex session——banner 已退場（hasCodexRow==true，承諾已兌現）。與 #13 一起看：#13 有 Claude 列仍顯示 banner，這張有 Codex 列就不顯示，證明退場條件是「有沒有 Codex 的列」不是「rows 是否非空」 |
+| `13b-codexConnected-banner-retires-with-codex-row-zh.png` | 對照（D-v）：.codexConnected banner ＋ rows 含一列 Codex session——banner 已退場（hasCodexRow==true，承諾已兌現）。與 #13 一起看：#13 有 Claude 列仍顯示 banner，這張有 Codex 列就不顯示，證明退場條件是「有沒有 Codex 的列」不是「rows 是否非空」 |
+| `14-worst-height-combination-en.png` | S1-4／CX56 最壞高度組合（D-ab）：install=.broken(.targetMissing, owner:.external)（CX56 的 `.replaceExternal` 代表值）＋ .occupiedByOther 有 snippet ＋ banner=.codexConnected ＋ rows 空 ＋ 英文——固定高度＋可捲的 snippet 區塊落地後，天花板應 ≤780pt（@2x 1560px），「複製」鈕與 footer 都在畫面內。**只有這張圖是英文單張**（CX56 量到的最壞語言，中文版無新增資訊） |
